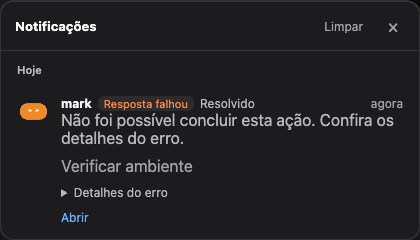
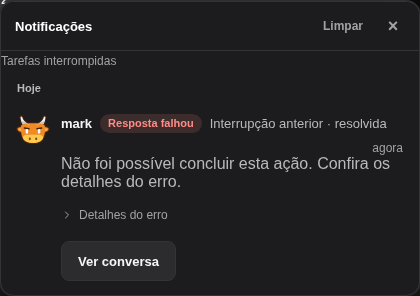
fix(ui): notification center type scale and e2e selectors for the Disclosure
Refs #566

diff --git a/ui/src/styles.css b/ui/src/styles.css
@@ -3374,11 +3374,22 @@ a {
   min-width: 0;
   flex: 1;
 }
+.notification-popover > header strong {
+  font-size: var(--type-17);
+  font-weight: var(--weight-semibold);
+}
+.notification-row[data-unread="true"] {
+  background: color-mix(in srgb, var(--accent-brand) 6%, transparent);
+}
 .notification-head {
   display: flex;
   align-items: center;
   gap: var(--space-8);
   font-size: var(--type-12);
+}
+.notification-head strong {
+  font-size: var(--type-13);
+  font-weight: var(--weight-semibold);
 }
 .notification-head time {
   margin-left: auto;
@@ -3389,6 +3400,10 @@ a {
   margin: var(--space-3) 0 0;
   overflow-wrap: anywhere;
   font-size: var(--type-13);
+}
+.notification-title {
+  font-size: var(--type-15);
+  font-weight: var(--weight-semibold);
 }
 .notification-body {
   max-height: 72px;

diff --git a/ui/test/e2e/mobile-navigation.spec.ts b/ui/test/e2e/mobile-navigation.spec.ts
@@ -64,7 +64,7 @@ test("phone navigation traps focus and reaches conversations, search, creation a
   await drawer.getByRole("button", { name: /^Notificações/ }).click()
   const notifications = drawer.getByRole("region", { name: "Central de notificações" })
   await expect(notifications).toBeVisible()
-  await notifications.getByRole("button", { name: "Abrir", exact: true }).click()
+  await notifications.getByRole("button", { name: /^(Ver conversa|Abrir e revisar)$/ }).click()
   await expect(drawer).not.toBeVisible()
   await expect(page.getByRole("textbox", { name: "Mensagem para mark" })).toBeVisible()
 

diff --git a/ui/test/e2e/r8-sidebar.spec.ts b/ui/test/e2e/r8-sidebar.spec.ts
@@ -50,7 +50,7 @@ for (const width of [1440, 1100]) {
         await center
           .locator(".notification-row")
           .filter({ hasText: "mobile-qa" })
-          .getByRole("button", { name: "Abrir", exact: true })
+          .getByRole("button", { name: /^(Ver conversa|Abrir e revisar)$/ })
           .click()
         await expect(page.getByRole("textbox", { name: "Mensagem para mobile-qa" })).toBeVisible()
         await expect(page.getByRole("button", { name: "Notificações, 1 precisa de atenção" })).toBeVisible()

diff --git a/ui/test/e2e/notification-center.spec.ts b/ui/test/e2e/notification-center.spec.ts
@@ -7,6 +7,7 @@ const capture = process.env.DS_COMPONENTS_CAPTURE
 const openCenter = async (page: Page, width: number) => {
   await page.setViewportSize({ width, height: width < 500 ? 844 : 900 })
   await page.goto("/test/e2e/notification-center-harness.html")
+  if (width < 500) await page.getByRole("button", { name: "Abrir menu" }).click()
   await page.getByRole("button", { name: /^Notificações,/ }).click()
 
   return page.getByRole("region", { name: "Central de notificações" })

diff --git a/ui/test/e2e/home-navigation.ts b/ui/test/e2e/home-navigation.ts
@@ -6,7 +6,7 @@ export const showBotPanel = async (page: Page): Promise<void> => {
 }
 
 export const openGlobalPage = async (page: Page, name: string): Promise<void> => {
-  await page.getByRole("button", { name: "Avançado", exact: true }).click()
+  await page.locator("button.sidebar-connect[aria-controls='sidebar-advanced-pages']").click()
   await page.getByRole("navigation", { name: "Opções avançadas" }).getByRole("button", { name, exact: true }).click()
 }
 

diff --git a/ui/test/e2e/r4.spec.ts b/ui/test/e2e/r4.spec.ts
@@ -32,7 +32,7 @@ test("r4 approval center is above the chat and sends the decision to the full ca
     }),
   ).toBe(true)
   await page.screenshot({ path: `${evidence}/notifications.png` })
-  await center.getByRole("button", { name: "Negar" }).click()
+  await center.getByRole("button", { name: "Abrir e revisar" }).click()
   await expect(page.getByRole("button", { name: "Notificações", exact: true })).toBeVisible()
 })
 
